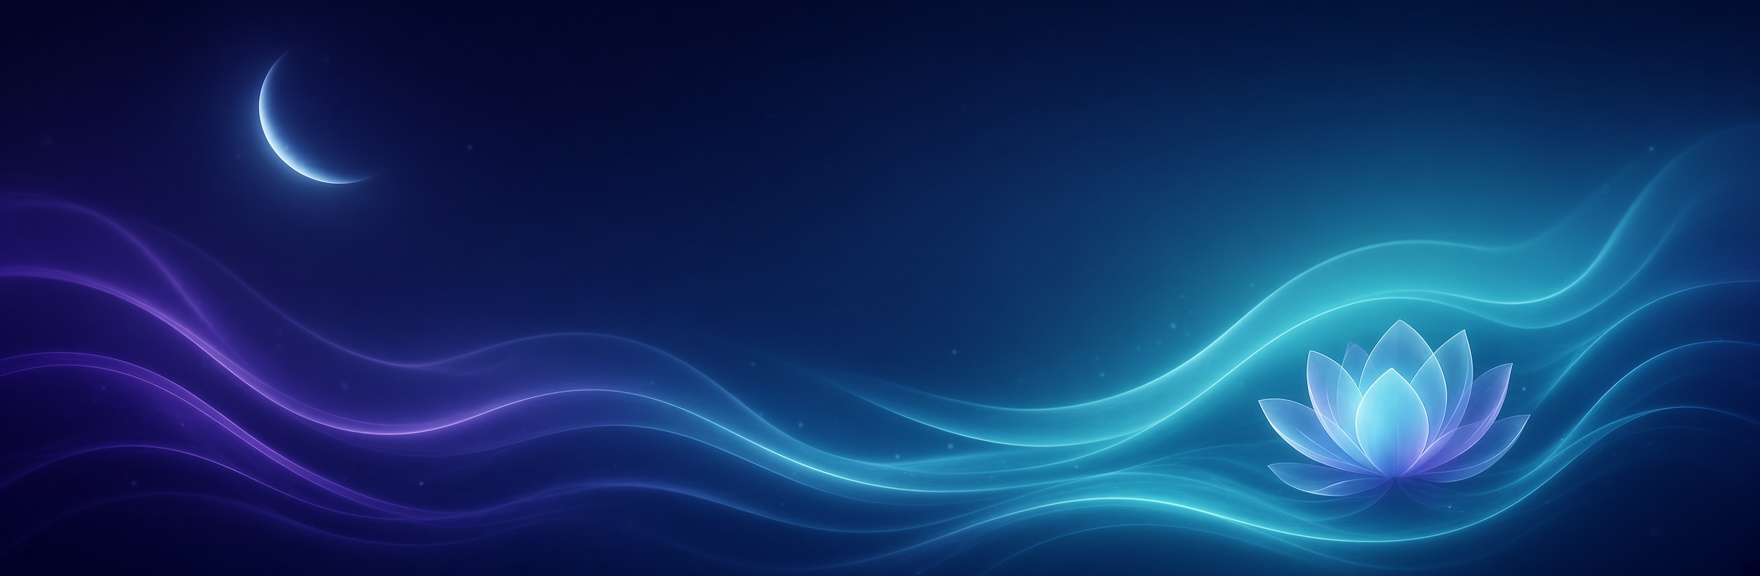
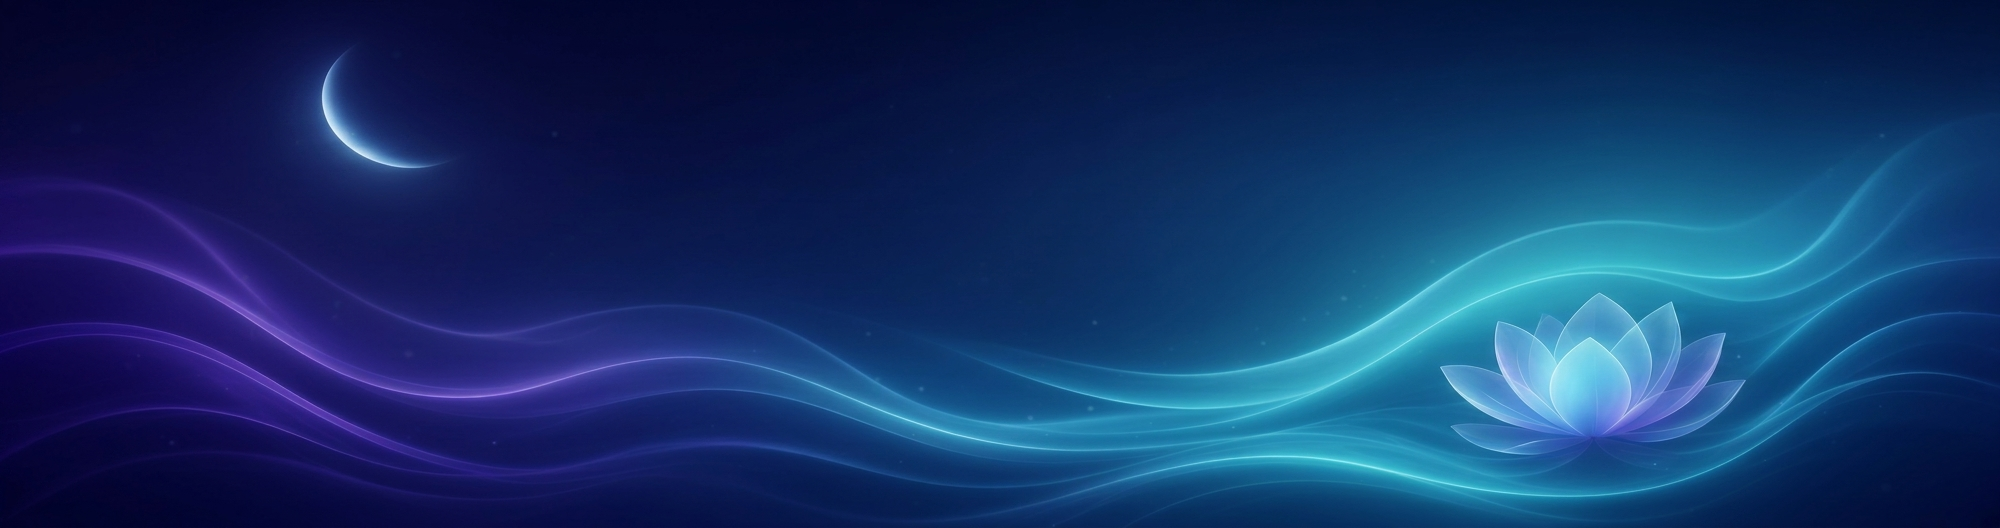
Se mejoro la pagina en general

diff --git a/privacidad.html b/privacidad.html
@@ -47,6 +47,8 @@
   <!-- CONTENIDO LEGAL -->
   <section class="revelar">
     <div class="wrap legal">
+      <p class="fecha">Última actualización: 9 de octubre de 2026</p>
+
       <p>Esta política explica qué datos usa Sleep Audio, desarrollada por DreamCode Studio, para qué los usa y qué derechos tienes.</p>
 
       <div class="resumen">
@@ -59,21 +61,36 @@
       <h2>2. Datos que usa la app</h2>
 
       <h3>Nivel de ruido del micrófono</h3>
-      <p>Durante la Detección Inteligente de Sueño, la app mide en tiempo real el volumen del entorno para detectar silencio. El audio no se graba, no se almacena y no sale del dispositivo.</p>
+      <p>Durante la Detección de reposo, la app mide en tiempo real el volumen del entorno para detectar silencio. El audio no se graba, no se almacena y no sale del dispositivo.</p>
 
       <h3>Sensores de movimiento</h3>
-      <p>Se usan en el móvil, junto al nivel de ruido, para estimar cuándo te has dormido. No se guardan ni se envían.</p>
+      <p>Se usan en el móvil, junto al nivel de ruido, para estimar cuándo te has dormido y avisarte. No se guardan ni se envían.</p>
 
       <h3>Datos de Health Connect</h3>
-      <p>Solo si lo activas y das permiso explícito, la app lee frecuencia cardíaca, variabilidad de la frecuencia cardíaca y datos de sueño para mostrarte el Informe de Sueño y ajustar la reproducción. Se procesan en el móvil y no se envían a ningún servidor.</p>
+      <p>Solo si lo activas y das permiso explícito, la app lee frecuencia cardíaca, variabilidad de la frecuencia cardíaca y datos de sueño para mostrarte el Informe de Sueño. Se procesan en el móvil y no se envían a ningún servidor.</p>
 
       <h3>Compras</h3>
-      <p>Las suscripciones se gestionan íntegramente a través de Google Play Billing. Nunca vemos ni guardamos los datos de tu tarjeta ni de tu forma de pago.</p>
+      <p>Si adquieres Premium, el pago se gestiona íntegramente a través de Google Play Billing. Nunca vemos ni guardamos los datos de tu tarjeta ni de tu forma de pago.</p>
+
+      <h3>Códigos de acceso promocionales</h3>
+      <p>Sleep Audio permite canjear códigos de acceso promocionales, que se entregan de forma individual y discrecional. Si canjeas uno, la app envía el código y un identificador anónimo de tu dispositivo a nuestro servidor (Cloudflare Workers) para validarlo y comprobar su vigencia. Guardamos el código, ese identificador y las fechas de canje y vencimiento. No se asocia a tu nombre ni a datos personales. Estos datos se conservan mientras el código esté vigente y hasta 12 meses después de su vencimiento. Si no usas un código, la app no envía nada de esto. Puedes solicitar la eliminación de estos datos escribiendo a <a href="mailto:dreamcode.creative@gmail.com">dreamcode.creative@gmail.com</a>; en ese caso, el código se revocará y dejará de dar acceso Premium.</p>
 
       <h3>Reproducción en streaming</h3>
       <p>Las pistas en streaming se sirven desde la infraestructura de Cloudflare R2. Al reproducirlas, el servidor registra técnicamente tu dirección IP y la pista solicitada, solo para el funcionamiento del servicio. No asociamos esa información a ningún dato personal ni guardamos historial de reproducción.</p>
 
-      <h2>3. Datos que no recopilamos</h2>
+      <h3>Datos guardados en tu móvil</h3>
+      <p>Tus ajustes, mezclas, temporizadores y las rutas de los audios que importes se guardan únicamente en tu dispositivo. Los audios que importas se leen desde tu móvil y no se suben a ningún servidor.</p>
+
+      <h2>3. Permisos que solicita la app</h2>
+      <ul>
+        <li><strong>Micrófono:</strong> solo para medir el nivel de ruido en la Detección de reposo. Es opcional.</li>
+        <li><strong>Health Connect:</strong> solo si activas el Informe de Sueño. Es opcional.</li>
+        <li><strong>Notificaciones:</strong> para mostrar los controles de reproducción y avisos.</li>
+        <li><strong>Vibración y alarmas:</strong> para el despertador y los avisos.</li>
+        <li><strong>Internet:</strong> para la Colección en streaming y para validar códigos promocionales.</li>
+      </ul>
+
+      <h2>4. Datos que no recopilamos</h2>
       <ul>
         <li>No pedimos tu nombre, dirección ni correo dentro de la app.</li>
         <li>No grabamos ni almacenamos audio.</li>
@@ -81,25 +98,30 @@
         <li>No vendemos ni compartimos datos con terceros con fines comerciales.</li>
       </ul>
 
-      <h2>4. Base legal</h2>
+      <h2>5. Base legal</h2>
       <p>Usamos los datos de micrófono, sensores y Health Connect con tu consentimiento, que das al activar cada función y conceder el permiso. Puedes retirarlo en cualquier momento desde los ajustes de Android o de Health Connect.</p>
+      <p>El registro técnico de la reproducción en streaming y la validación de los códigos promocionales se basan en nuestro interés legítimo: poder prestar el servicio y evitar el uso no autorizado de los códigos.</p>
 
-      <h2>5. Uso de datos de Health Connect</h2>
+      <h2>6. Uso de datos de Health Connect</h2>
       <p>El uso que hace Sleep Audio de la información recibida de Health Connect cumple la Política de permisos de Health Connect, incluidos los requisitos de uso limitado. Estos datos no se usan para publicidad ni se transfieren a terceros.</p>
 
-      <h2>6. Conservación</h2>
-      <p>Los datos que se procesan en el móvil se eliminan al desinstalar la app.</p>
+      <h2>7. Transferencias internacionales</h2>
+      <p>Para el streaming y la validación de códigos promocionales usamos los servicios de Cloudflare, Inc., un proveedor con sede en Estados Unidos que opera servidores en varios países. Por eso, los datos técnicos descritos en esta política (dirección IP, pista solicitada, código e identificador anónimo del dispositivo) pueden tratarse fuera del Espacio Económico Europeo. Cloudflare está certificada en el Marco de Privacidad de Datos UE-EE. UU. y su acuerdo de tratamiento de datos incorpora las cláusulas contractuales tipo de la Comisión Europea.</p>
 
-      <h2>7. Tus derechos</h2>
+      <h2>8. Conservación</h2>
+      <ul>
+        <li><strong>En tu móvil:</strong> los ajustes, mezclas y demás datos que se procesan en el dispositivo se eliminan al desinstalar la app.</li>
+        <li><strong>En nuestro servidor:</strong> los datos de un código promocional canjeado (el código, el identificador anónimo y las fechas de canje y vencimiento) se conservan mientras el código esté vigente y hasta 12 meses después de su vencimiento. No guardamos historial de reproducción del streaming.</li>
+      </ul>
+
+      <h2>9. Tus derechos</h2>
       <p>Puedes ejercer tus derechos de acceso, rectificación, supresión, oposición, limitación del tratamiento y portabilidad escribiendo a <a href="mailto:dreamcode.creative@gmail.com">dreamcode.creative@gmail.com</a>. Responderemos a tu solicitud en el plazo máximo de un mes desde su recepción, salvo que resulte aplicable una ampliación conforme a la normativa vigente. Si consideras que tu solicitud no ha sido atendida adecuadamente, puedes presentar una reclamación ante la Agencia Española de Protección de Datos (AEPD).</p>
 
-      <h2>8. Menores</h2>
+      <h2>10. Menores</h2>
       <p>Sleep Audio no está dirigida a menores de 14 años ni recopila conscientemente datos de ellos.</p>
 
-      <h2>9. Cambios en esta política</h2>
+      <h2>11. Cambios en esta política</h2>
       <p>Si cambiamos esta política, publicaremos la nueva versión en esta página.</p>
-
-      <p class="fecha">2026</p>
     </div>
   </section>
 

diff --git a/index.html b/index.html
@@ -62,7 +62,7 @@
     <div class="wrap">
       <div class="hero-texto">
         <h1>Apaga el ruido<br>mental y duerme<br>en minutos.</h1>
-        <p class="sub">Sonidos ambientales de alta calidad, mezclas personalizadas y temporizador inteligente. Sin anuncios molestos.</p>
+        <p class="sub">Sonidos ambientales de alta calidad, mezclas personalizadas y temporizador de apagado. Sin anuncios molestos.</p>
 
         <!-- PREVIEW DE AUDIO -->
         <div class="audio-preview">
@@ -120,11 +120,6 @@
 
       <div class="features">
         <div class="feature-card">
-          <span class="feature-icon">🎧</span>
-          <h3 class="feature-title">Sonidos para descansar</h3>
-          <p class="feature-desc">Naturaleza, ruido blanco y una Colección de música relajante y meditaciones.</p>
-        </div>
-        <div class="feature-card">
           <span class="feature-icon">🎚</span>
           <h3 class="feature-title">Mezclas personalizadas</h3>
           <p class="feature-desc">Ajusta el volumen de cada capa de audio por separado y crea tu ambiente.</p>
@@ -132,17 +127,22 @@
         <div class="feature-card">
           <span class="feature-icon">⏱</span>
           <h3 class="feature-title">Temporizador de apagado</h3>
-          <p class="feature-desc">Elige el tiempo y el volumen baja poco a poco hasta detenerse, sin sobresaltos.</p>
+          <p class="feature-desc">Elige el tiempo y el volumen baja poco a poco hasta detenerse.</p>
         </div>
         <div class="feature-card">
           <span class="feature-icon">⏰</span>
           <h3 class="feature-title">Despertador con tus sonidos</h3>
-          <p class="feature-desc">Elige un sonido como alarma, con volumen ascendente, vibración y repetición semanal, para despertar con suavidad.</p>
+          <p class="feature-desc">Elige un sonido como alarma, con volumen ascendente, vibración y repetición semanal.</p>
         </div>
         <div class="feature-card">
           <span class="feature-icon">😴</span>
           <h3 class="feature-title">Detección de reposo</h3>
-          <p class="feature-desc">Detecta cuándo parece que te dormiste y te avisa. Opcional, y tú decides si activarla.</p>
+          <p class="feature-desc">Detecta cuándo parece que te dormiste y te avisa. Es opcional.</p>
+        </div>
+        <div class="feature-card">
+          <span class="feature-icon">📴</span>
+          <h3 class="feature-title">25 pistas sin conexión</h3>
+          <p class="feature-desc">Instrumentales, ambientales y meditaciones guiadas dentro de la app.</p>
         </div>
         <div class="feature-card">
           <span class="feature-icon">🌙</span>
@@ -161,7 +161,7 @@
         <p class="sub">Tu compañero de sonidos relajantes para dormir mejor.</p>
         <p class="gris" style="margin-top:18px;max-width:52ch">
           Mezcla sonidos ambientales, despiértate con tu propio sonido en lugar de un tono genérico
-          y deja que la app se adapte a tu descanso con la Detección Inteligente de Sueño.
+          y activa, si quieres, la Detección de reposo, que te avisa cuando parece que te has dormido.
         </p>
         <div class="acciones">
           <a class="btn btn-1 btn-play" href="https://play.google.com/store/apps/details?id=com.dreamcodestudio.sleepaudio" target="_blank" rel="noopener">
@@ -193,12 +193,12 @@
           <h3>Siempre disponible</h3>
           <ul>
             <li>
-              <strong>25 pistas ya incluidas</strong>
-              <span>10 músicas ambientales, 10 sonidos de la naturaleza y 5 meditaciones guiadas.</span>
+              <strong>25 pistas sin conexión</strong>
+              <span>La Biblioteca incluye 10 instrumentales, 10 ambientales y 5 meditaciones guiadas, todas dentro de la app y listas para sonar sin internet.</span>
             </li>
             <li>
-              <strong>Sin conexión</strong>
-              <span>En el avión, en el campo o donde no hay cobertura.</span>
+              <strong>Colección de música</strong>
+              <span>Necesita conexión.</span>
             </li>
           </ul>
         </div>
@@ -314,7 +314,7 @@
       <div class="faq" style="margin-top:32px">
         <details>
           <summary>¿Funciona sin conexión a internet?</summary>
-          <p>Sí, en parte. Los sonidos de la Biblioteca (lluvia, pájaros, ruido blanco y más) están dentro de la app y funcionan sin internet. La Colección de música se reproduce por streaming y necesita conexión; las pistas que ya escuchaste pueden seguir sonando sin red durante un tiempo, pero no está garantizado.</p>
+          <p>Sí, en gran parte. Las 25 pistas de la Biblioteca están dentro de la app y funcionan sin internet. La Colección de música se reproduce por streaming y necesita conexión; las pistas que ya escuchaste pueden seguir sonando sin red durante un tiempo, pero no está garantizado.</p>
         </details>
 
         <details>
@@ -323,13 +323,13 @@
         </details>
 
         <details>
-          <summary>¿Es totalmente gratuita?</summary>
-          <p>Puedes descargarla y usarla gratis. Incluye sonidos y pistas gratuitas, y una versión Premium opcional que desbloquea el resto de la Colección y más funciones.</p>
+          <summary>¿Es gratis?</summary>
+          <p>Puedes descargarla gratis y probar Premium durante 10 días. Después puedes seguir usando los sonidos gratuitos o suscribirte a Premium (3,99 € al mes o 19,99 € al año) para desbloquear todo el contenido. Sin anuncios.</p>
         </details>
 
         <details>
           <summary>¿Qué sonidos incluye?</summary>
-          <p>Sonidos de naturaleza como lluvia y pájaros, ruido blanco para dormir, y una Colección de música relajante con arpas, flautas tibetanas y meditaciones. Puedes mezclar varios a la vez.</p>
+          <p>La Biblioteca incluye 25 pistas que funcionan sin conexión: 10 instrumentales, 10 ambientales (como lluvia y pájaros) y 5 meditaciones guiadas. Puedes mezclar varias a la vez y ajustar el volumen de cada una. Además, la Colección ofrece música relajante por streaming, como arpas y flautas tibetanas. Por ahora la Colección se escucha por separado y no se puede mezclar; estamos trabajando para que se pueda en futuras actualizaciones.</p>
         </details>
 
         <details>
@@ -354,7 +354,7 @@
 
         <details>
           <summary>¿Qué pasa con mi privacidad?</summary>
-          <p>La detección de reposo es opcional y tú decides si activarla. Más detalles en la <a href="./privacidad.html">Política de privacidad</a>.</p>
+          <p>La detección de reposo es opcional y tú decides si activarla. No grabamos audio ni mostramos publicidad. Más detalles en la <a href="./privacidad.html">Política de privacidad</a>.</p>
         </details>
       </div>
     </div>

diff --git a/styles.css b/styles.css
@@ -172,17 +172,35 @@ section.cierre .acciones { justify-content: center; }
   50%      { transform: translateY(-10px); }
 }
 
-/* Hero corto */
+/* Hero corto (Apps, Sobre nosotros, Contacto, Privacidad, Términos, Permisos)
+   La altura sigue la proporción de fondo.jpg para que la imagen se vea entera.
+   La imagen empieza 72px por debajo del borde superior, así la luna queda
+   separada del menú, y el borde inferior se funde con la página. */
 .hero.corto {
-  min-height: clamp(420px, 48vw, 580px);
-  padding: 190px 0 110px;
+  min-height: clamp(412px, calc(26.4vw + 72px), 600px);
+  padding: 124px 0 52px;
   align-items: flex-end;
   background:
-    linear-gradient(180deg, rgba(21,19,46,.55) 0%, rgba(21,19,46,.9) 100%),
-    url("./assets/fondo.jpg") center 30% / cover no-repeat;
+    linear-gradient(180deg, rgba(21,19,46,.25) 0%, rgba(21,19,46,0) 36%, rgba(21,19,46,0) 78%, var(--noche) 100%),
+    linear-gradient(90deg, rgba(21,19,46,.70) 0%, rgba(21,19,46,.50) 42%, rgba(21,19,46,.08) 78%),
+    url("./assets/fondo.jpg") center bottom / auto calc(100% - 72px) no-repeat,
+    var(--noche);
 }
-.hero.corto .wrap > h1 { max-width: 22ch; }
-.hero.corto .sub { max-width: 40ch; }
+/* Pantallas muy anchas: la imagen no se estira; sus lados se funden con la página */
+@media (min-width: 2001px) {
+  .hero.corto {
+    background:
+      linear-gradient(90deg, var(--noche) calc(50% - 1000px), transparent calc(50% - 780px), transparent calc(50% + 780px), var(--noche) calc(50% + 1000px)),
+      linear-gradient(180deg, rgba(21,19,46,.25) 0%, rgba(21,19,46,0) 36%, rgba(21,19,46,0) 78%, var(--noche) 100%),
+      linear-gradient(90deg, rgba(21,19,46,.70) 0%, rgba(21,19,46,.50) 42%, rgba(21,19,46,.08) 78%),
+      url("./assets/fondo.jpg") center bottom / auto calc(100% - 72px) no-repeat,
+      var(--noche);
+  }
+}
+.hero.corto .wrap > h1 { max-width: 22ch; font-size: clamp(40px, 5vw, 72px); }
+.hero.corto .sub { max-width: 40ch; margin-top: 16px; }
+/* La primera sección sube: menos hueco bajo la cabecera corta */
+.hero.corto + section { padding-top: 40px; }
 
 /* Hero app con mockup */
 .hero.app {
@@ -777,6 +795,14 @@ section.tras-hero { padding-top: 48px; }
 @media (max-width: 900px) {
   .hero-texto .audio-preview-buttons { margin-right: 0; }
   .hero.inicio { flex-direction: column; align-items: stretch; padding: 124px 0 0; }
+  .hero.corto {
+    min-height: 0;
+    padding: 124px 0 48px;
+    background:
+      linear-gradient(180deg, rgba(21,19,46,.45) 0%, rgba(21,19,46,.35) 60%, var(--noche) 100%),
+      url("./assets/fondo.jpg") 82% 42% / cover no-repeat;
+  }
+  .hero.corto + section { padding-top: 40px; }
   .hero.inicio .hero-texto { max-width: 100%; }
   .hero.inicio .hero-texto h1 { font-size: clamp(40px, 10.5vw, 60px); }
   .hero.inicio .hero-texto .sub { font-size: 20px; }

diff --git a/permisos.html b/permisos.html
@@ -54,7 +54,7 @@
           <code>RECORD_AUDIO</code>
         </div>
         <div>
-          <p>Mide el nivel de ruido del entorno durante la Detección Inteligente de Sueño, para detectar silencio y ajustar la reproducción.</p>
+          <p>Mide el nivel de ruido del entorno durante la Detección de reposo, para detectar silencio. La función solo te avisa cuando parece que te has dormido; no cambia la reproducción. Es opcional.</p>
           <ul>
             <li>No grabamos audio.</li>
             <li>No almacenamos audio.</li>
@@ -79,7 +79,7 @@
           <code>READ_HEART_RATE · READ_HEART_RATE_VARIABILITY · READ_SLEEP</code>
         </div>
         <div>
-          <p>Solo si conectas un reloj compatible y das permiso explícito. Sirven para el Informe de Sueño, el resumen de pulsaciones nocturnas y ajustar la reproducción a tu descanso.</p>
+          <p>Solo si conectas un reloj compatible y das permiso explícito. Sirven para el Informe de Sueño y el resumen de pulsaciones nocturnas.</p>
           <ul>
             <li>No almacenamos tus datos de salud fuera del móvil.</li>
             <li>No los enviamos a ningún servidor.</li>
@@ -107,7 +107,7 @@
           <code>FOREGROUND_SERVICE · FOREGROUND_SERVICE_MEDIA_PLAYBACK</code>
         </div>
         <div>
-          <p>Permiten que el audio, la mezcla, el temporizador y la detección de sueño sigan funcionando aunque cierres la app o apagues la pantalla.</p>
+          <p>Permiten que el audio, la mezcla, el temporizador y la Detección de reposo sigan funcionando aunque cierres la app o apagues la pantalla.</p>
         </div>
       </div>
 
@@ -147,7 +147,7 @@
           <code>INTERNET</code>
         </div>
         <div>
-          <p>Se usa para las funciones que requieren conexión: la gestión de la suscripción a través de Google Play y la reproducción en streaming de pistas alojadas en la nube.</p>
+          <p>Se usa para las funciones que requieren conexión: la gestión de la suscripción a través de Google Play, la reproducción en streaming de pistas alojadas en la nube y la validación de códigos promocionales.</p>
         </div>
       </div>
 

diff --git a/terminos.html b/terminos.html
@@ -47,6 +47,8 @@
   <!-- CONTENIDO LEGAL -->
   <section class="revelar">
     <div class="wrap legal">
+      <p class="fecha">Última actualización: 9 de octubre de 2026</p>
+
       <p>Al descargar o usar Sleep Audio, desarrollada por DreamCode Studio, aceptas estos términos.</p>
 
       <h2>1. Licencia de uso</h2>
@@ -71,7 +73,7 @@
       <p>Los códigos promocionales de cortesía facilitados por DreamCode Studio se conceden de forma gratuita y están destinados exclusivamente a las personas a las que hayan sido otorgados. Su uso está sujeto a las condiciones comunicadas en el momento de su entrega. DreamCode Studio podrá limitar, invalidar o revocar un código cuando detecte un uso no autorizado, fraudulento o contrario a dichas condiciones.</p>
 
       <h2>5. Propiedad intelectual</h2>
-      <p>La app y su contenido, incluidos sonidos, meditaciones e historias, son propiedad de DreamCode Studio o se usan con licencia. No está permitido copiarlos, distribuirlos ni usarlos fuera de la app. Los audios que importes siguen siendo tuyos y eres responsable de tener derecho a usarlos.</p>
+      <p>La app y su contenido, incluidos sonidos y meditaciones, son propiedad de DreamCode Studio o se usan con licencia. No está permitido copiarlos, distribuirlos ni usarlos fuera de la app. Los audios que importes siguen siendo tuyos y eres responsable de tener derecho a usarlos.</p>
 
       <h2>6. Limitación de responsabilidad</h2>
       <p>DreamCode Studio no se hace responsable de problemas derivados del uso incorrecto de la app, de interrupciones de servicios de terceros como Google Play o Health Connect, ni de fallos técnicos ajenos a su control.</p>
@@ -85,7 +87,6 @@
       <h2>9. Contacto</h2>
       <p><a href="mailto:dreamcode.creative@gmail.com?subject=Contacto%20desde%20la%20web">dreamcode.creative@gmail.com</a></p>
 
-      <p class="fecha">2026</p>
     </div>
   </section>
 

diff --git a/sleepaudio.html b/sleepaudio.html
@@ -69,7 +69,7 @@
       <div class="hero-texto">
         <h1>Sleep Audio</h1>
         <p class="sub">
-          Duerme mejor cada noche. Sonidos para dormirte, un temporizador que se apaga cuando tú te duermes y un despertador con tu propio sonido.
+          Duerme mejor cada noche. Sonidos para dormirte, un temporizador que detiene el audio al acabar el tiempo que elijas y un despertador con tu propio sonido.
         </p>
         <div class="acciones">
           <a class="btn btn-1 btn-play" href="https://play.google.com/store/apps/details?id=com.dreamcodestudio.sleepaudio" target="_blank" rel="noopener">
@@ -88,7 +88,7 @@
         <div class="mockup-marco">
           <img src="./assets/captura-1.jpg" alt="Sonidos para dormirte" class="activa">
           <img src="./assets/captura-6.jpg" alt="Despertador con tu propio sonido">
-          <img src="./assets/captura-5.jpg" alt="Temporizador que se apaga cuando te duermes">
+          <img src="./assets/captura-5.jpg" alt="Temporizador de apagado">
         </div>
         <!-- PUNTOS INDICADORES CENTRADOS -->
         <div class="mockup-dots" aria-label="Indicadores de captura">
@@ -114,8 +114,12 @@
           <h3>Siempre disponible</h3>
           <ul>
             <li>
-              <strong>25 pistas incluidas</strong>
-              <span>10 músicas ambientales, 10 sonidos de la naturaleza y 5 meditaciones.</span>
+              <strong>25 pistas sin conexión</strong>
+              <span>La Biblioteca incluye 10 instrumentales, 10 ambientales y 5 meditaciones guiadas, todas dentro de la app y listas para sonar sin internet.</span>
+            </li>
+            <li>
+              <strong>Colección de música</strong>
+              <span>Necesita conexión.</span>
             </li>
           </ul>
         </div>

diff --git a/apps.html b/apps.html
@@ -70,7 +70,7 @@
           <p class="gris" style="font-size:14px;letter-spacing:.1em;text-transform:uppercase;margin-bottom:6px;">Disponible</p>
           <h2>Sleep Audio</h2>
           <p class="gris" style="margin-top:10px;max-width:56ch">
-            Sonidos relajantes, mezclas de audio, meditaciones guiadas y un despertador inteligente que suena con tu propio sonido.
+            Sonidos relajantes, mezclas de audio, meditaciones guiadas y un despertador con tus sonidos.
           </p>
           <div class="acciones" style="margin-top:28px">
             <a class="btn btn-1 btn-play" href="https://play.google.com/store/apps/details?id=com.dreamcodestudio.sleepaudio" target="_blank" rel="noopener">

diff --git a/sobre-nosotros.html b/sobre-nosotros.html
@@ -49,8 +49,7 @@
     <div class="wrap lado">
       <p class="cita">"Menos ruido, más utilidad."</p>
       <div>
-        <p>DreamCode Studio.</p>
-        <p>Nos especializamos en aplicaciones móviles con diseño minimalista premium, funciones inteligentes y experiencias fluidas.</p>
+        <p>En DreamCode Studio nos especializamos en aplicaciones móviles con diseño minimalista premium, funciones inteligentes y experiencias fluidas.</p>
         <p>Cada proyecto está construido con dedicación, precisión y una filosofía clara: menos ruido, más utilidad.</p>
         <div class="acciones">
           <a class="btn btn-2" href="./apps.html">Ver nuestras apps</a>
